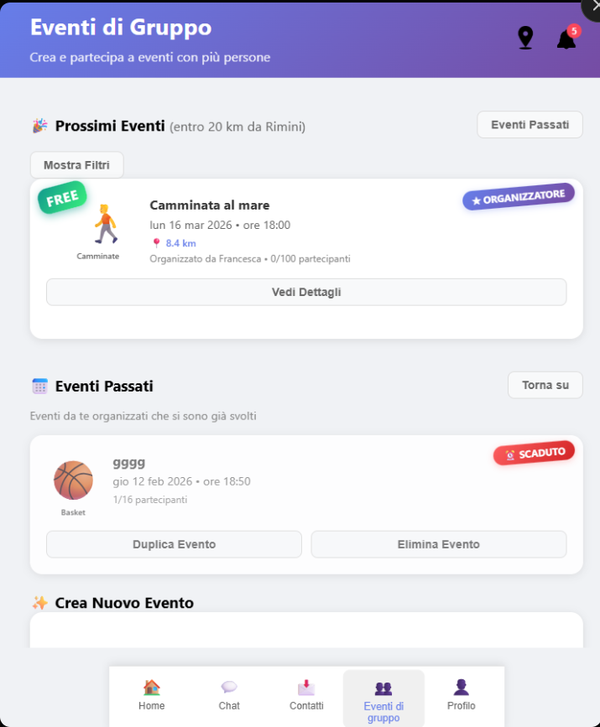
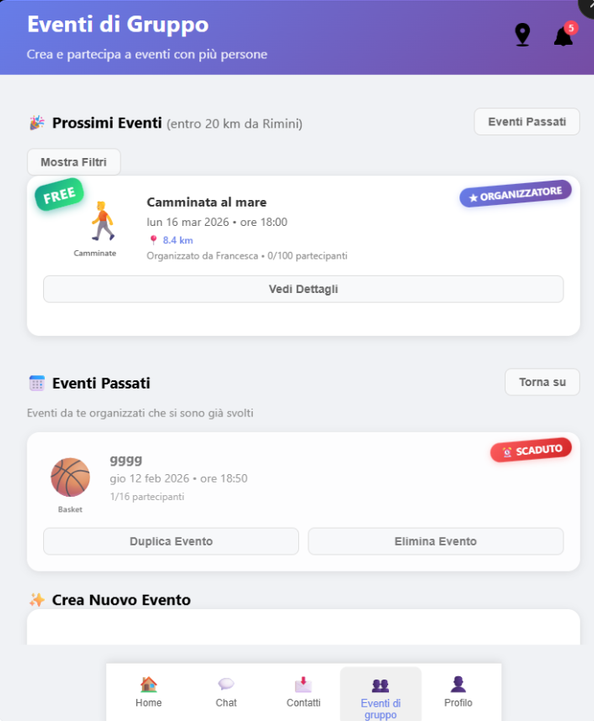
fix: crop bordi scuri screenshot + overflow-x hero + bordo mockup visibile

diff --git a/index.html b/index.html
@@ -120,7 +120,7 @@
             display: flex;
             align-items: center;
             position: relative;
-            overflow: hidden;
+            overflow-x: hidden;
         }
 
         .hero::before {
@@ -228,7 +228,7 @@
             border-radius: 16px;
             overflow: hidden;
             box-shadow: 0 25px 60px rgba(0,0,0,0.4);
-            border: 4px solid rgba(255,255,255,0.15);
+            border: 3px solid rgba(255,255,255,0.5);
             background: #ffffff;
             animation: float 6s ease-in-out infinite;
         }
